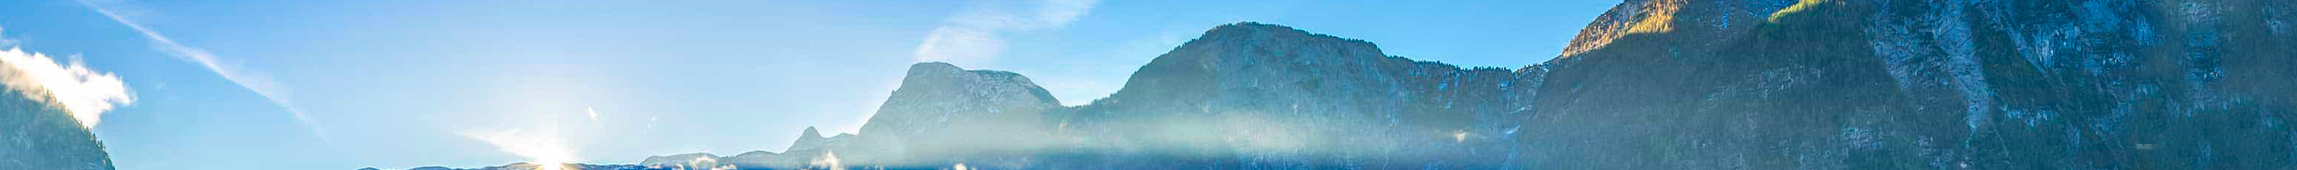
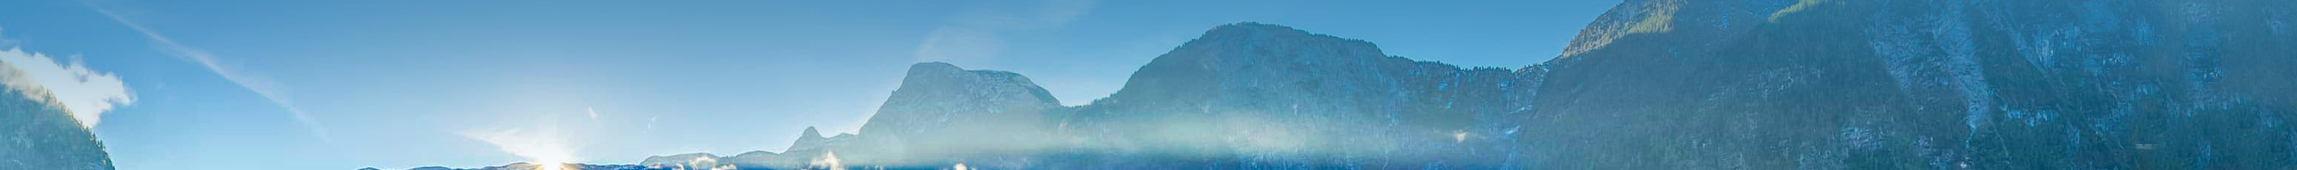
Nomainīts fons uz tumšāku, cita virsraksta krāsa.

diff --git a/cefTLapp/res_pr2017/css/presidency.css b/cefTLapp/res_pr2017/css/presidency.css
@@ -49,7 +49,7 @@ h1#main_title {
 }
 
 #main_title a {
-    color: #e5242e;
+    color: white;
     vertical-align: middle;
     display: table-cell;
     cursor: pointer;
@@ -287,7 +287,7 @@ div.fancy-select ul.options.open {
 
     #translation_type_section.inIframe {
         margin-top: 0;
-        background: url(/img/background.png);
+        background: url(/img/background.jpg);
         background-position: top center;
         background-repeat: no-repeat;
         background-size: cover;
